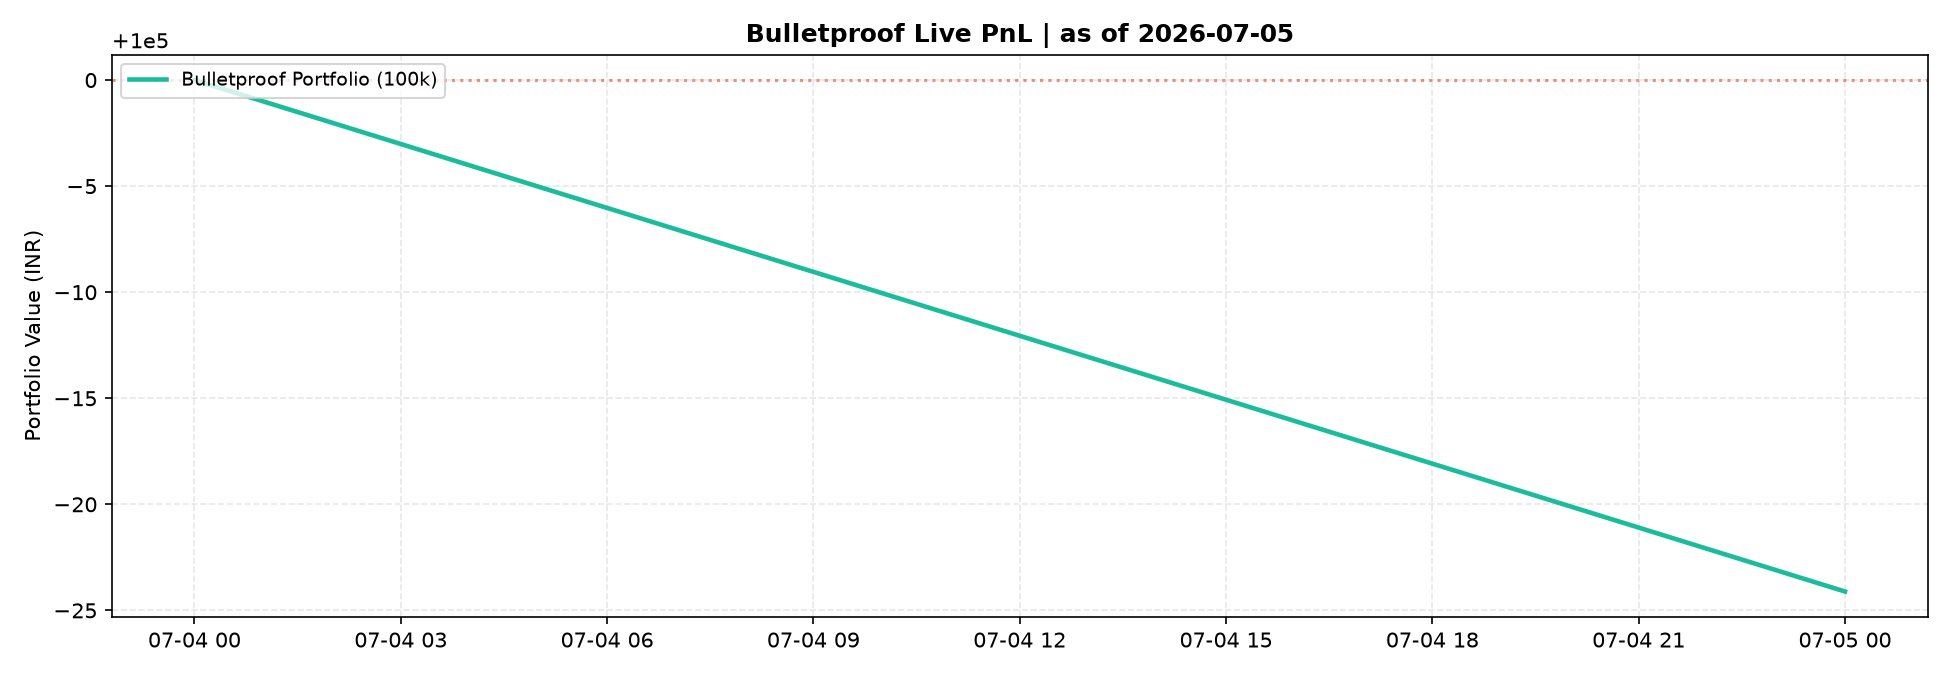
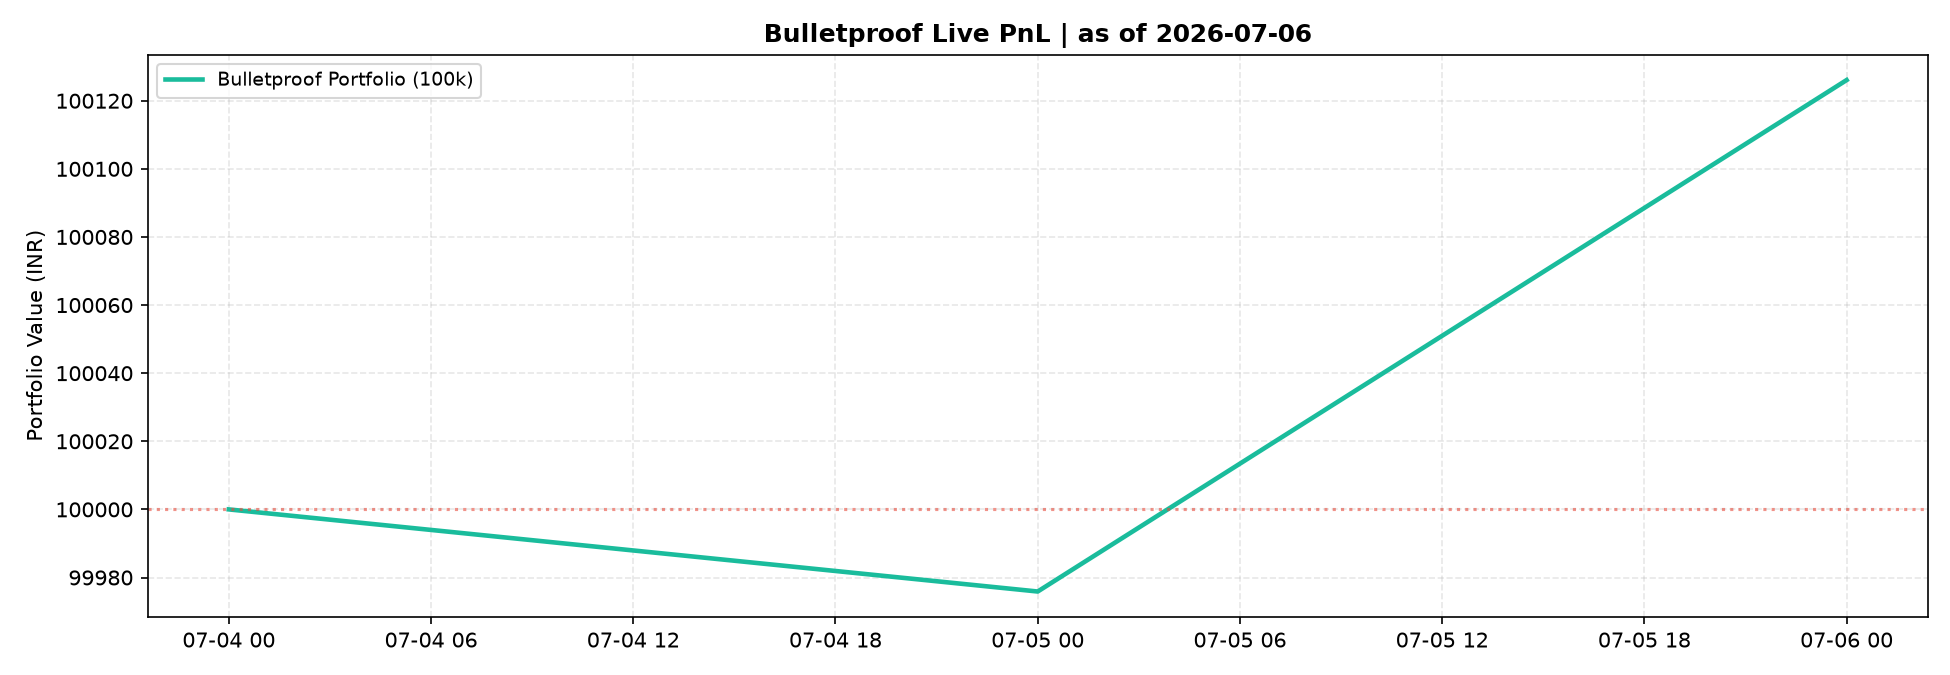
Paper trader comparison update: 2026-07-06

diff --git a/compare_strats/reports/report_nostops.md b/compare_strats/reports/report_nostops.md
@@ -1,42 +1,42 @@
 # Live Baseline No-Stops Systematic Portfolio Report
 
-> **Date**: 2026-07-05  |  **Days Live**: 1  |  **Portfolio Mode**: Always Fully Invested
+> **Date**: 2026-07-06  |  **Days Live**: 2  |  **Portfolio Mode**: Always Fully Invested
 
 ## Summary Stats
 | Metric | Value |
 | :--- | :---: |
 | Starting Capital | **INR 100,000.00** |
-| Current Value | **INR 99,975.89** |
-| Total Return | **-0.02%** |
+| Current Value | **INR 100,126.07** |
+| Total Return | **+0.13%** |
 
 ## Current Active Holdings
 | Ticker | Shares | Entry Price | Current Price | Unrealised PnL |
 | :--- | :---: | :---: | :---: | :---: |
-| RELIANCE.NS | 1.0000 | INR 1304.00 | INR 1304.00 | **+0.00%** |
-| TCS.NS | 1.0000 | INR 2093.50 | INR 2093.50 | **+0.00%** |
-| HDFCBANK.NS | 3.0000 | INR 801.05 | INR 801.05 | **+0.00%** |
-| HINDUNILVR.NS | 1.0000 | INR 2201.20 | INR 2201.20 | **+0.00%** |
-| SUNPHARMA.NS | 1.0000 | INR 1904.80 | INR 1904.80 | **+0.00%** |
-| TATASTEEL.NS | 13.0000 | INR 189.80 | INR 189.80 | **+0.00%** |
-| BHARTIARTL.NS | 1.0000 | INR 1910.40 | INR 1910.40 | **+0.00%** |
-| NTPC.NS | 7.0000 | INR 356.45 | INR 356.45 | **+0.00%** |
-| DLF.NS | 3.0000 | INR 675.90 | INR 675.90 | **+0.00%** |
-| BEL.NS | 6.0000 | INR 418.05 | INR 418.05 | **+0.00%** |
-| PIDILITIND.NS | 1.0000 | INR 1598.00 | INR 1598.00 | **+0.00%** |
-| COALINDIA.NS | 5.0000 | INR 438.70 | INR 438.70 | **+0.00%** |
-| CONCOR.NS | 5.0000 | INR 488.20 | INR 488.20 | **+0.00%** |
-| SBIN.NS | 2.0000 | INR 1040.00 | INR 1040.00 | **+0.00%** |
+| RELIANCE.NS | 1.0000 | INR 1304.00 | INR 1321.30 | **+1.33%** |
+| TCS.NS | 1.0000 | INR 2093.50 | INR 2057.60 | **-1.71%** |
+| HDFCBANK.NS | 3.0000 | INR 801.05 | INR 829.85 | **+3.60%** |
+| HINDUNILVR.NS | 1.0000 | INR 2201.20 | INR 2202.00 | **+0.04%** |
+| SUNPHARMA.NS | 1.0000 | INR 1904.80 | INR 1912.80 | **+0.42%** |
+| TATASTEEL.NS | 13.0000 | INR 189.80 | INR 190.87 | **+0.56%** |
+| BHARTIARTL.NS | 1.0000 | INR 1910.40 | INR 1925.70 | **+0.80%** |
+| NTPC.NS | 7.0000 | INR 356.45 | INR 356.25 | **-0.06%** |
+| DLF.NS | 3.0000 | INR 675.90 | INR 673.30 | **-0.38%** |
+| BEL.NS | 6.0000 | INR 418.05 | INR 425.55 | **+1.79%** |
+| PIDILITIND.NS | 1.0000 | INR 1598.00 | INR 1616.90 | **+1.18%** |
+| COALINDIA.NS | 6.0000 | INR 437.64 | INR 432.35 | **-1.21%** |
+| CONCOR.NS | 5.0000 | INR 488.20 | INR 481.30 | **-1.41%** |
+| SBIN.NS | 2.0000 | INR 1040.00 | INR 1037.70 | **-0.22%** |
 | BPCL.NS | 8.0000 | INR 308.15 | INR 308.15 | **+0.00%** |
-| IREDA.NS | 20.0000 | INR 128.49 | INR 128.49 | **+0.00%** |
-| LALPATHLAB.NS | 1.0000 | INR 1645.70 | INR 1645.70 | **+0.00%** |
-| VOLTAS.NS | 2.0000 | INR 1280.20 | INR 1280.20 | **+0.00%** |
-| ICICIBANK.NS | 1.0000 | INR 1411.40 | INR 1411.40 | **+0.00%** |
-| JSWSTEEL.NS | 2.0000 | INR 1230.20 | INR 1230.20 | **+0.00%** |
-| CIPLA.NS | 1.0000 | INR 1458.20 | INR 1458.20 | **+0.00%** |
-| AUBANK.NS | 2.0000 | INR 1058.40 | INR 1058.40 | **+0.00%** |
-| TATACOMM.NS | 1.0000 | INR 1906.70 | INR 1906.70 | **+0.00%** |
+| IREDA.NS | 21.0000 | INR 128.41 | INR 126.74 | **-1.30%** |
+| LALPATHLAB.NS | 1.0000 | INR 1645.70 | INR 1686.00 | **+2.45%** |
+| VOLTAS.NS | 2.0000 | INR 1280.20 | INR 1284.50 | **+0.34%** |
+| ICICIBANK.NS | 1.0000 | INR 1411.40 | INR 1426.90 | **+1.10%** |
+| JSWSTEEL.NS | 2.0000 | INR 1230.20 | INR 1243.20 | **+1.06%** |
+| CIPLA.NS | 1.0000 | INR 1458.20 | INR 1472.30 | **+0.97%** |
+| AUBANK.NS | 2.0000 | INR 1058.40 | INR 1061.40 | **+0.28%** |
+| TATACOMM.NS | 1.0000 | INR 1906.70 | INR 1892.00 | **-0.77%** |
 
-**Cash on hand**: INR 51,753.19
+**Cash on hand**: INR 51,193.82
 
 ## Live PnL Chart
 ![No-Stops PnL Chart](../charts/pnl_nostops.png)
@@ -44,6 +44,8 @@
 ## Recent Trade Log (Last 15)
 | Date | Ticker | Action | Shares | Price | Value | Reason |
 | :--- | :--- | :--- | :---: | :---: | :---: | :--- |
+| 2026-07-06 | IREDA.NS | **BUY** | 1.0000 | INR 126.74 | INR 126.74 | Rebalance to target weight=0.027 |
+| 2026-07-06 | COALINDIA.NS | **BUY** | 1.0000 | INR 432.35 | INR 432.35 | Rebalance to target weight=0.026 |
 | 2026-07-05 | TATACOMM.NS | **BUY** | 1.0000 | INR 1906.70 | INR 1906.70 | Rebalance to target weight=0.028 |
 | 2026-07-05 | AUBANK.NS | **BUY** | 2.0000 | INR 1058.40 | INR 2116.80 | Rebalance to target weight=0.026 |
 | 2026-07-05 | CIPLA.NS | **BUY** | 1.0000 | INR 1458.20 | INR 1458.20 | Rebalance to target weight=0.026 |
@@ -57,5 +59,3 @@
 | 2026-07-05 | CONCOR.NS | **BUY** | 5.0000 | INR 488.20 | INR 2441.00 | Rebalance to target weight=0.026 |
 | 2026-07-05 | COALINDIA.NS | **BUY** | 5.0000 | INR 438.70 | INR 2193.50 | Rebalance to target weight=0.026 |
 | 2026-07-05 | PIDILITIND.NS | **BUY** | 1.0000 | INR 1598.00 | INR 1598.00 | Rebalance to target weight=0.027 |
-| 2026-07-05 | BEL.NS | **BUY** | 6.0000 | INR 418.05 | INR 2508.30 | Rebalance to target weight=0.026 |
-| 2026-07-05 | DLF.NS | **BUY** | 3.0000 | INR 675.90 | INR 2027.70 | Rebalance to target weight=0.026 |

diff --git a/compare_strats/reports/report_bulletproof.md b/compare_strats/reports/report_bulletproof.md
@@ -1,39 +1,39 @@
 # Live Bulletproof Systematic Portfolio Report (EMA-50 Switch)
 
-> **Date**: 2026-07-05  |  **Days Live**: 2  |  **Nifty Index Switch**: Risk-On
+> **Date**: 2026-07-06  |  **Days Live**: 3  |  **Nifty Index Switch**: Risk-On
 
 ## Summary Stats
 | Metric | Value |
 | :--- | :---: |
 | Starting Capital | INR 100,000.00 |
-| Current Portfolio Value | INR 99,975.89 |
-| Cash Balance | INR 51,753.19 |
-| Active Asset Exposure | INR 48,222.70 |
-| Total Return Since Start | -0.024% |
+| Current Portfolio Value | INR 100,126.07 |
+| Cash Balance | INR 51,193.82 |
+| Active Asset Exposure | INR 48,932.25 |
+| Total Return Since Start | 0.126% |
 
 ## Active Stock Holdings
 | Ticker | Shares | Avg Price | Current Price | Market Value | Allocation |
 | :--- | :---: | :---: | :---: | :---: | :---: |
-| RELIANCE.NS | 1 | INR 1304.00 | INR 1304.00 | INR 1304.00 | 1.30% |
-| TCS.NS | 1 | INR 2093.50 | INR 2093.50 | INR 2093.50 | 2.09% |
-| HDFCBANK.NS | 3 | INR 801.05 | INR 801.05 | INR 2403.15 | 2.40% |
-| HINDUNILVR.NS | 1 | INR 2201.20 | INR 2201.20 | INR 2201.20 | 2.20% |
-| SUNPHARMA.NS | 1 | INR 1904.80 | INR 1904.80 | INR 1904.80 | 1.91% |
-| TATASTEEL.NS | 13 | INR 189.80 | INR 189.80 | INR 2467.40 | 2.47% |
-| BHARTIARTL.NS | 1 | INR 1910.40 | INR 1910.40 | INR 1910.40 | 1.91% |
-| NTPC.NS | 7 | INR 356.45 | INR 356.45 | INR 2495.15 | 2.50% |
-| DLF.NS | 3 | INR 675.90 | INR 675.90 | INR 2027.70 | 2.03% |
-| BEL.NS | 6 | INR 418.05 | INR 418.05 | INR 2508.30 | 2.51% |
-| PIDILITIND.NS | 1 | INR 1598.00 | INR 1598.00 | INR 1598.00 | 1.60% |
-| COALINDIA.NS | 5 | INR 438.70 | INR 438.70 | INR 2193.50 | 2.19% |
-| CONCOR.NS | 5 | INR 488.20 | INR 488.20 | INR 2441.00 | 2.44% |
-| SBIN.NS | 2 | INR 1040.00 | INR 1040.00 | INR 2080.00 | 2.08% |
-| BPCL.NS | 8 | INR 308.15 | INR 308.15 | INR 2465.20 | 2.47% |
-| IREDA.NS | 20 | INR 128.49 | INR 128.49 | INR 2569.80 | 2.57% |
-| LALPATHLAB.NS | 1 | INR 1645.70 | INR 1645.70 | INR 1645.70 | 1.65% |
-| VOLTAS.NS | 2 | INR 1280.20 | INR 1280.20 | INR 2560.40 | 2.56% |
-| ICICIBANK.NS | 1 | INR 1411.40 | INR 1411.40 | INR 1411.40 | 1.41% |
-| JSWSTEEL.NS | 2 | INR 1230.20 | INR 1230.20 | INR 2460.40 | 2.46% |
-| CIPLA.NS | 1 | INR 1458.20 | INR 1458.20 | INR 1458.20 | 1.46% |
-| AUBANK.NS | 2 | INR 1058.40 | INR 1058.40 | INR 2116.80 | 2.12% |
-| TATACOMM.NS | 1 | INR 1906.70 | INR 1906.70 | INR 1906.70 | 1.91% |
+| RELIANCE.NS | 1 | INR 1304.00 | INR 1321.30 | INR 1321.30 | 1.32% |
+| TCS.NS | 1 | INR 2093.50 | INR 2057.60 | INR 2057.60 | 2.06% |
+| HDFCBANK.NS | 3 | INR 801.05 | INR 829.85 | INR 2489.55 | 2.49% |
+| HINDUNILVR.NS | 1 | INR 2201.20 | INR 2202.00 | INR 2202.00 | 2.20% |
+| SUNPHARMA.NS | 1 | INR 1904.80 | INR 1912.80 | INR 1912.80 | 1.91% |
+| TATASTEEL.NS | 13 | INR 189.80 | INR 190.87 | INR 2481.31 | 2.48% |
+| BHARTIARTL.NS | 1 | INR 1910.40 | INR 1925.70 | INR 1925.70 | 1.92% |
+| NTPC.NS | 7 | INR 356.45 | INR 356.25 | INR 2493.75 | 2.49% |
+| DLF.NS | 3 | INR 675.90 | INR 673.30 | INR 2019.90 | 2.02% |
+| BEL.NS | 6 | INR 418.05 | INR 425.55 | INR 2553.30 | 2.55% |
+| PIDILITIND.NS | 1 | INR 1598.00 | INR 1616.90 | INR 1616.90 | 1.61% |
+| COALINDIA.NS | 6 | INR 437.64 | INR 432.35 | INR 2594.10 | 2.59% |
+| CONCOR.NS | 5 | INR 488.20 | INR 481.30 | INR 2406.50 | 2.40% |
+| SBIN.NS | 2 | INR 1040.00 | INR 1037.70 | INR 2075.40 | 2.07% |
+| BPCL.NS | 8 | INR 308.15 | INR 308.15 | INR 2465.20 | 2.46% |
+| IREDA.NS | 21 | INR 128.41 | INR 126.74 | INR 2661.54 | 2.66% |
+| LALPATHLAB.NS | 1 | INR 1645.70 | INR 1686.00 | INR 1686.00 | 1.68% |
+| VOLTAS.NS | 2 | INR 1280.20 | INR 1284.50 | INR 2569.00 | 2.57% |
+| ICICIBANK.NS | 1 | INR 1411.40 | INR 1426.90 | INR 1426.90 | 1.43% |
+| JSWSTEEL.NS | 2 | INR 1230.20 | INR 1243.20 | INR 2486.40 | 2.48% |
+| CIPLA.NS | 1 | INR 1458.20 | INR 1472.30 | INR 1472.30 | 1.47% |
+| AUBANK.NS | 2 | INR 1058.40 | INR 1061.40 | INR 2122.80 | 2.12% |
+| TATACOMM.NS | 1 | INR 1906.70 | INR 1892.00 | INR 1892.00 | 1.89% |

diff --git a/compare_strats/reports/report_ensemble_70_30.md b/compare_strats/reports/report_ensemble_70_30.md
@@ -1,30 +1,30 @@
 # Live Version 5.0 Ensemble (70-30) Portfolio Report
 
-> **Date**: 2026-07-05  |  **Days Live**: 1  |  **Nifty Index Switch**: Risk-On
+> **Date**: 2026-07-06  |  **Days Live**: 2  |  **Nifty Index Switch**: Risk-On
 
 ## Summary Stats
 | Metric | Value |
 | :--- | :---: |
 | Starting Capital | INR 100,000.00 |
-| Current Portfolio Value | INR 99,971.68 |
-| Cash Balance | INR 43,330.89 |
-| Active Asset Exposure | INR 56,640.79 |
-| Total Return Since Start | -0.028% |
+| Current Portfolio Value | INR 100,130.79 |
+| Cash Balance | INR 43,363.00 |
+| Active Asset Exposure | INR 56,767.79 |
+| Total Return Since Start | 0.131% |
 
 ## Active Stock Holdings
 | Ticker | Shares | Avg Price | Current Price | Market Value | Allocation |
 | :--- | :---: | :---: | :---: | :---: | :---: |
-| HDFCBANK.NS | 3 | INR 801.05 | INR 801.05 | INR 2403.15 | 2.40% |
-| SUNPHARMA.NS | 1 | INR 1904.80 | INR 1904.80 | INR 1904.80 | 1.91% |
-| BHARTIARTL.NS | 1 | INR 1910.40 | INR 1910.40 | INR 1910.40 | 1.91% |
-| DLF.NS | 4 | INR 675.90 | INR 675.90 | INR 2703.60 | 2.70% |
-| TRENT.NS | 3 | INR 3340.60 | INR 3340.60 | INR 10021.80 | 10.02% |
-| PIDILITIND.NS | 2 | INR 1598.00 | INR 1598.00 | INR 3196.00 | 3.20% |
-| INDIGO.NS | 1 | INR 5426.50 | INR 5426.50 | INR 5426.50 | 5.43% |
-| BPCL.NS | 7 | INR 308.15 | INR 308.15 | INR 2157.05 | 2.16% |
-| IREDA.NS | 1 | INR 128.49 | INR 128.49 | INR 128.49 | 0.13% |
-| LALPATHLAB.NS | 2 | INR 1645.70 | INR 1645.70 | INR 3291.40 | 3.29% |
-| ICICIBANK.NS | 1 | INR 1411.40 | INR 1411.40 | INR 1411.40 | 1.41% |
-| ADANIENT.NS | 3 | INR 3212.10 | INR 3212.10 | INR 9636.30 | 9.64% |
-| CIPLA.NS | 2 | INR 1458.20 | INR 1458.20 | INR 2916.40 | 2.92% |
-| TATACOMM.NS | 5 | INR 1906.70 | INR 1906.70 | INR 9533.50 | 9.54% |
+| HDFCBANK.NS | 3 | INR 801.05 | INR 829.85 | INR 2489.55 | 2.49% |
+| SUNPHARMA.NS | 1 | INR 1904.80 | INR 1912.80 | INR 1912.80 | 1.91% |
+| BHARTIARTL.NS | 1 | INR 1910.40 | INR 1925.70 | INR 1925.70 | 1.92% |
+| DLF.NS | 4 | INR 675.90 | INR 673.30 | INR 2693.20 | 2.69% |
+| TRENT.NS | 3 | INR 3340.60 | INR 3343.80 | INR 10031.40 | 10.02% |
+| PIDILITIND.NS | 2 | INR 1598.00 | INR 1616.90 | INR 3233.80 | 3.23% |
+| INDIGO.NS | 1 | INR 5426.50 | INR 5408.50 | INR 5408.50 | 5.40% |
+| IREDA.NS | 1 | INR 128.49 | INR 126.74 | INR 126.74 | 0.13% |
+| LALPATHLAB.NS | 2 | INR 1645.70 | INR 1686.00 | INR 3372.00 | 3.37% |
+| ICICIBANK.NS | 1 | INR 1411.40 | INR 1426.90 | INR 1426.90 | 1.43% |
+| ADANIENT.NS | 3 | INR 3212.10 | INR 3206.60 | INR 9619.80 | 9.61% |
+| CIPLA.NS | 2 | INR 1458.20 | INR 1472.30 | INR 2944.60 | 2.94% |
+| TATACOMM.NS | 5 | INR 1906.70 | INR 1892.00 | INR 9460.00 | 9.45% |
+| AUBANK.NS | 2 | INR 1061.40 | INR 1061.40 | INR 2122.80 | 2.12% |

diff --git a/compare_strats/reports/report_v4_heuristic.md b/compare_strats/reports/report_v4_heuristic.md
@@ -1,29 +1,29 @@
 # Live Version 4.0 Heuristic Probabilistic Portfolio Report
 
-> **Date**: 2026-07-05  |  **Days Live**: 1  |  **Nifty Index Switch**: Risk-On
+> **Date**: 2026-07-06  |  **Days Live**: 2  |  **Nifty Index Switch**: Risk-On
 
 ## Summary Stats
 | Metric | Value |
 | :--- | :---: |
 | Starting Capital | INR 100,000.00 |
-| Current Portfolio Value | INR 99,973.57 |
-| Cash Balance | INR 47,103.92 |
-| Active Asset Exposure | INR 52,869.65 |
-| Total Return Since Start | -0.026% |
+| Current Portfolio Value | INR 100,316.97 |
+| Cash Balance | INR 52,848.07 |
+| Active Asset Exposure | INR 47,468.90 |
+| Total Return Since Start | 0.317% |
 
 ## Active Stock Holdings
 | Ticker | Shares | Avg Price | Current Price | Market Value | Allocation |
 | :--- | :---: | :---: | :---: | :---: | :---: |
-| HDFCBANK.NS | 4 | INR 801.05 | INR 801.05 | INR 3204.20 | 3.21% |
-| SUNPHARMA.NS | 2 | INR 1904.80 | INR 1904.80 | INR 3809.60 | 3.81% |
-| BHARTIARTL.NS | 1 | INR 1910.40 | INR 1910.40 | INR 1910.40 | 1.91% |
-| DLF.NS | 6 | INR 675.90 | INR 675.90 | INR 4055.40 | 4.06% |
-| TRENT.NS | 1 | INR 3340.60 | INR 3340.60 | INR 3340.60 | 3.34% |
-| PIDILITIND.NS | 3 | INR 1598.00 | INR 1598.00 | INR 4794.00 | 4.80% |
-| BPCL.NS | 9 | INR 308.15 | INR 308.15 | INR 2773.35 | 2.77% |
-| LALPATHLAB.NS | 2 | INR 1645.70 | INR 1645.70 | INR 3291.40 | 3.29% |
-| ICICIBANK.NS | 2 | INR 1411.40 | INR 1411.40 | INR 2822.80 | 2.82% |
-| M&M.NS | 1 | INR 3136.90 | INR 3136.90 | INR 3136.90 | 3.14% |
-| ADANIENT.NS | 3 | INR 3212.10 | INR 3212.10 | INR 9636.30 | 9.64% |
-| CIPLA.NS | 3 | INR 1458.20 | INR 1458.20 | INR 4374.60 | 4.38% |
-| TATACOMM.NS | 3 | INR 1906.70 | INR 1906.70 | INR 5720.10 | 5.72% |
+| HDFCBANK.NS | 4 | INR 801.05 | INR 829.85 | INR 3319.40 | 3.31% |
+| SUNPHARMA.NS | 2 | INR 1904.80 | INR 1912.80 | INR 3825.60 | 3.81% |
+| BHARTIARTL.NS | 1 | INR 1910.40 | INR 1925.70 | INR 1925.70 | 1.92% |
+| DLF.NS | 6 | INR 675.90 | INR 673.30 | INR 4039.80 | 4.03% |
+| TRENT.NS | 1 | INR 3340.60 | INR 3343.80 | INR 3343.80 | 3.33% |
+| PIDILITIND.NS | 3 | INR 1598.00 | INR 1616.90 | INR 4850.70 | 4.84% |
+| LALPATHLAB.NS | 2 | INR 1645.70 | INR 1686.00 | INR 3372.00 | 3.36% |
+| ICICIBANK.NS | 2 | INR 1411.40 | INR 1426.90 | INR 2853.80 | 2.84% |
+| M&M.NS | 1 | INR 3136.90 | INR 3201.20 | INR 3201.20 | 3.19% |
+| ADANIENT.NS | 2 | INR 3212.10 | INR 3206.60 | INR 6413.20 | 6.39% |
+| CIPLA.NS | 3 | INR 1458.20 | INR 1472.30 | INR 4416.90 | 4.40% |
+| TATACOMM.NS | 2 | INR 1906.70 | INR 1892.00 | INR 3784.00 | 3.77% |
+| AUBANK.NS | 2 | INR 1061.40 | INR 1061.40 | INR 2122.80 | 2.12% |

diff --git a/compare_strats/reports/report_v3_ml.md b/compare_strats/reports/report_v3_ml.md
@@ -1,27 +1,29 @@
 # Live Version 3.0 ML Probabilistic Portfolio Report
 
-> **Date**: 2026-07-05  |  **Days Live**: 1  |  **Nifty Index Switch**: Risk-On
+> **Date**: 2026-07-06  |  **Days Live**: 2  |  **Nifty Index Switch**: Risk-On
 
 ## Summary Stats
 | Metric | Value |
 | :--- | :---: |
 | Starting Capital | INR 100,000.00 |
-| Current Portfolio Value | INR 99,967.65 |
-| Cash Balance | INR 35,270.37 |
-| Active Asset Exposure | INR 64,697.28 |
-| Total Return Since Start | -0.032% |
+| Current Portfolio Value | INR 99,884.96 |
+| Cash Balance | INR 36,196.01 |
+| Active Asset Exposure | INR 63,688.95 |
+| Total Return Since Start | -0.115% |
 
 ## Active Stock Holdings
 | Ticker | Shares | Avg Price | Current Price | Market Value | Allocation |
 | :--- | :---: | :---: | :---: | :---: | :---: |
-| HDFCBANK.NS | 2 | INR 801.05 | INR 801.05 | INR 1602.10 | 1.60% |
-| TRENT.NS | 4 | INR 3340.60 | INR 3340.60 | INR 13362.40 | 13.37% |
-| SBIN.NS | 1 | INR 1040.00 | INR 1040.00 | INR 1040.00 | 1.04% |
-| INDIGO.NS | 2 | INR 5426.50 | INR 5426.50 | INR 10853.00 | 10.86% |
-| BPCL.NS | 8 | INR 308.15 | INR 308.15 | INR 2465.20 | 2.47% |
-| IREDA.NS | 12 | INR 128.49 | INR 128.49 | INR 1541.88 | 1.54% |
-| VOLTAS.NS | 4 | INR 1280.20 | INR 1280.20 | INR 5120.80 | 5.12% |
-| ADANIENT.NS | 4 | INR 3212.10 | INR 3212.10 | INR 12848.40 | 12.85% |
-| CIPLA.NS | 1 | INR 1458.20 | INR 1458.20 | INR 1458.20 | 1.46% |
-| AUBANK.NS | 1 | INR 1058.40 | INR 1058.40 | INR 1058.40 | 1.06% |
-| TATACOMM.NS | 7 | INR 1906.70 | INR 1906.70 | INR 13346.90 | 13.35% |
+| HDFCBANK.NS | 1 | INR 801.05 | INR 829.85 | INR 829.85 | 0.83% |
+| TRENT.NS | 4 | INR 3340.60 | INR 3343.80 | INR 13375.20 | 13.39% |
+| SBIN.NS | 1 | INR 1040.00 | INR 1037.70 | INR 1037.70 | 1.04% |
+| INDIGO.NS | 2 | INR 5426.50 | INR 5408.50 | INR 10817.00 | 10.83% |
+| BPCL.NS | 9 | INR 308.15 | INR 308.15 | INR 2773.35 | 2.78% |
+| IREDA.NS | 10 | INR 128.49 | INR 126.74 | INR 1267.40 | 1.27% |
+| VOLTAS.NS | 2 | INR 1280.20 | INR 1284.50 | INR 2569.00 | 2.57% |
+| ADANIENT.NS | 4 | INR 3212.10 | INR 3206.60 | INR 12826.40 | 12.84% |
+| CIPLA.NS | 1 | INR 1458.20 | INR 1472.30 | INR 1472.30 | 1.47% |
+| AUBANK.NS | 1 | INR 1058.40 | INR 1061.40 | INR 1061.40 | 1.06% |
+| TATACOMM.NS | 7 | INR 1906.70 | INR 1892.00 | INR 13244.00 | 13.26% |
+| NTPC.NS | 3 | INR 356.25 | INR 356.25 | INR 1068.75 | 1.07% |
+| DLF.NS | 2 | INR 673.30 | INR 673.30 | INR 1346.60 | 1.35% |
